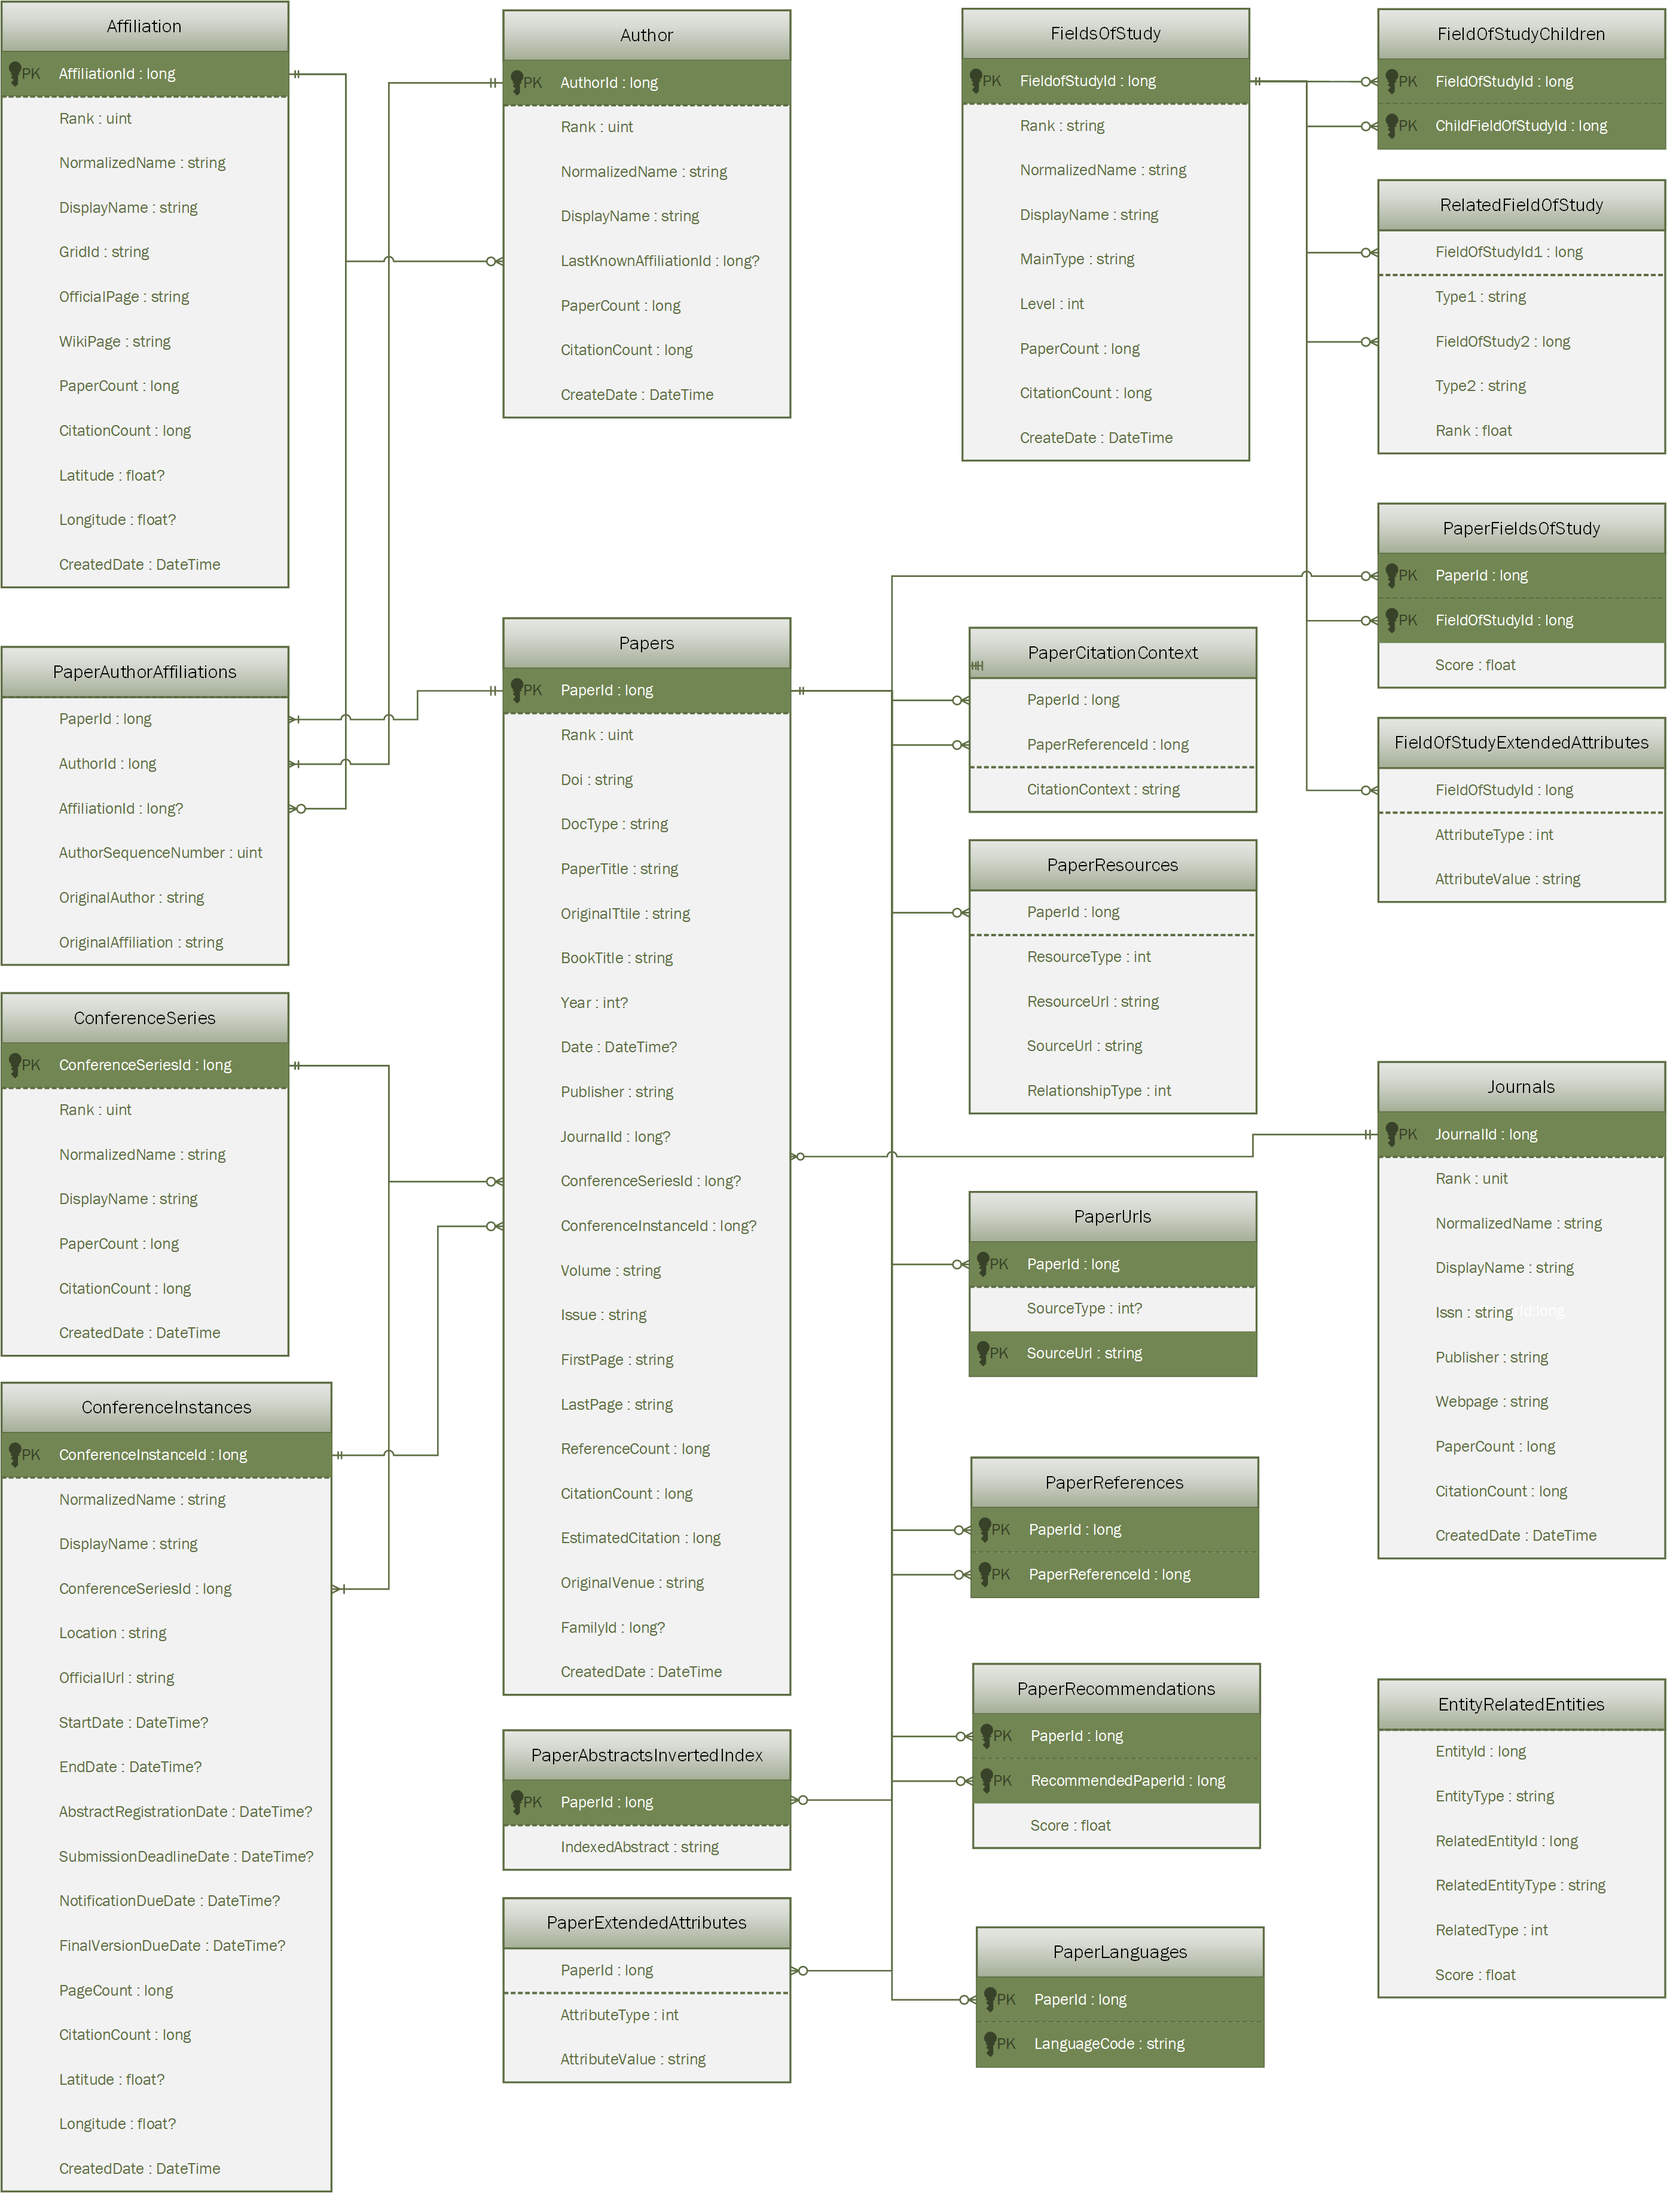
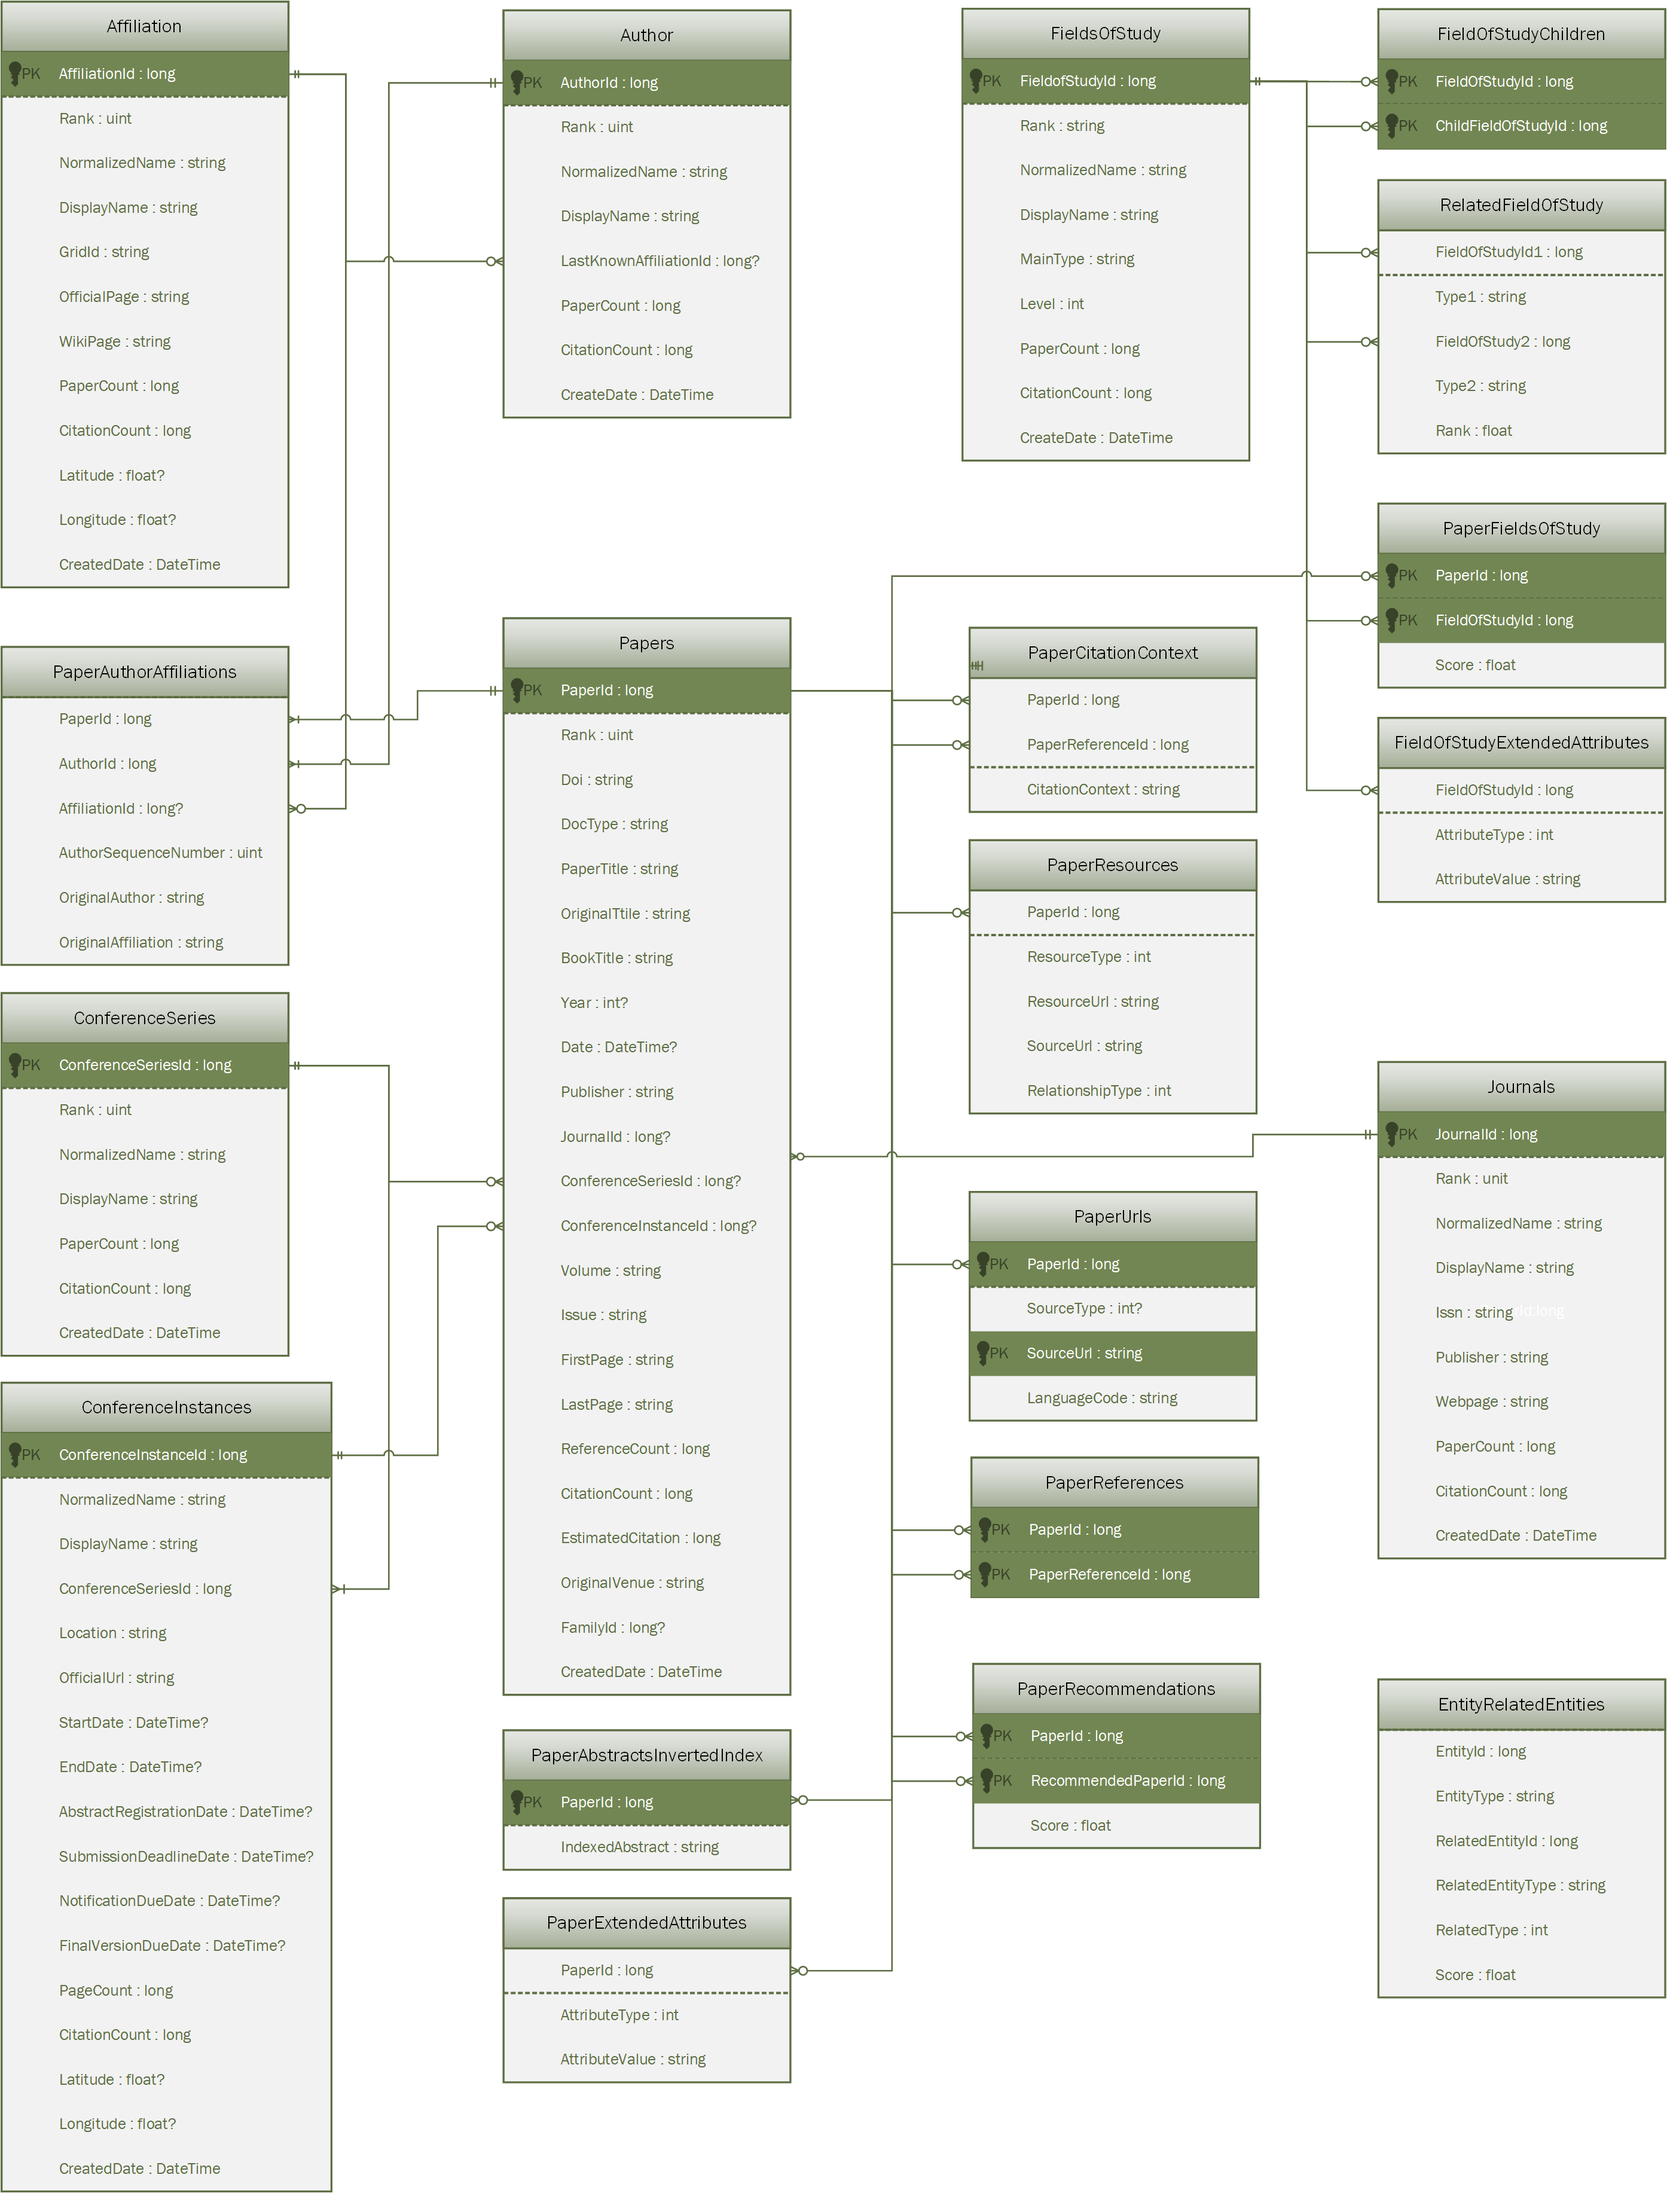
Moved LanguageCode from PaperLanguages.txt to PaperUrls.txt (#71)
* Update reference-data-schema.md

* Update reference-data-schema.md

* Add files via upload

Changed region(s): [[0.5617, 0.8702, 0.7801, 0.9635], [0.6241, 0.6216, 0.7177, 0.6527]]

diff --git a/academic-services/graph/reference-data-schema.md b/academic-services/graph/reference-data-schema.md
@@ -2,7 +2,7 @@
 title: Microsoft Academic Graph data schema
 description: Documents the complete, most recent Microsoft Academic Graph entity data schema, including the name and type of each attribute
 ms.topic: reference
-ms.date: 8/26/2019
+ms.date: 9/9/2019
 ---
 # Microsoft Academic Graph data schema
 
@@ -246,17 +246,6 @@ Column # | Name | Type | Note
 2 | FieldOfStudyId | long | PRIMARY KEY <br> FOREIGN KEY REFERENCES FieldsOfStudy(FieldOfStudyId)
 3 | Score | float | Confidence range between 0 and 1. Bigger number representing higher confidence.
 
-## Paper Languages
-
-**Path** `nlp/PaperLanguages.txt`
-
-**Schema**
-
-Column # | Name | Type | Note
---- | --- | --- | ---
-1 | PaperId | long | PRIMARY KEY <br> FOREIGN KEY REFERENCES Papers(PaperId)
-2 | LanguageCode | string | PRIMARY KEY
-
 ## Paper Recommendations
 
 **Path** `advanced/PaperRecommendations.txt`
@@ -305,6 +294,7 @@ Column # | Name | Type | Note
 1 | PaperId | long | PRIMARY KEY <br> FOREIGN KEY REFERENCES Papers(PaperId)
 2 | SourceType | int? | 1 = Html, 2 = Text, 3 = Pdf, 4 = Doc, 5 = Ppt, 6 = Xls, 8 = Rtf, 12 = Xml, 13 = Rss, 20 = Swf, 27 = Ics, 31 = Pub, 33 = Ods, 34 = Odp, 35 = Odt, 36 = Zip, 40 = Mp3, 0/999/NULL = unknown
 3 | SourceUrl | string | PRIMARY KEY
+4 | LanguageCode | string |
 
 ## Papers
 
